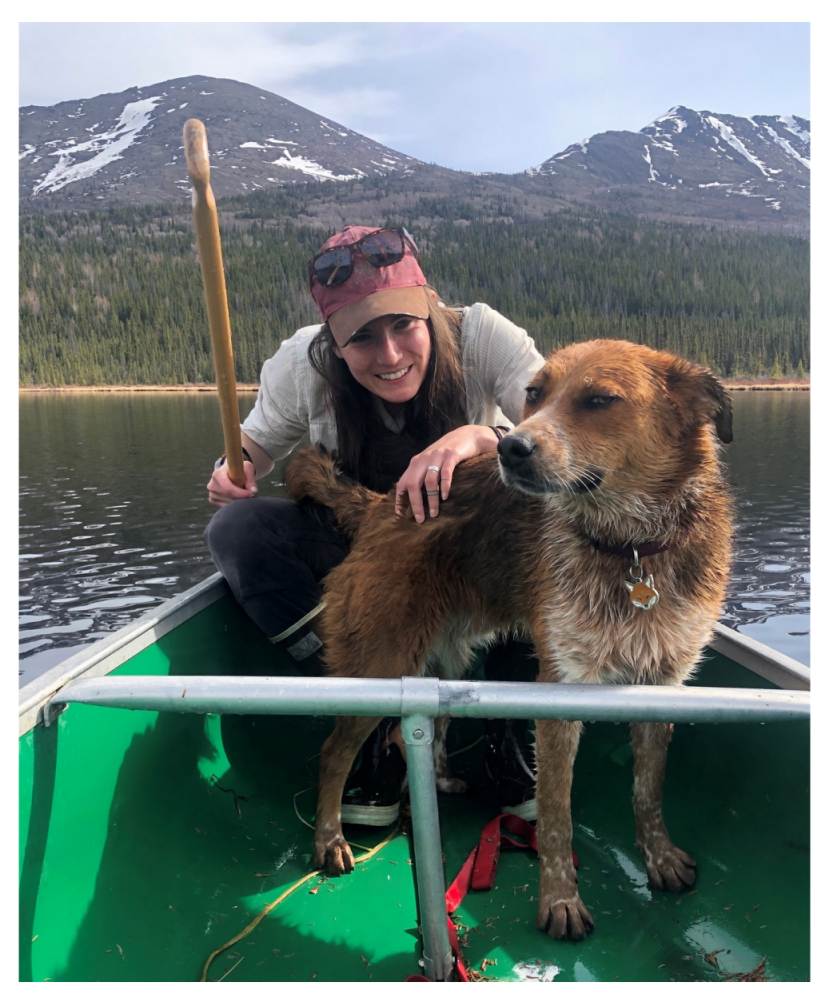
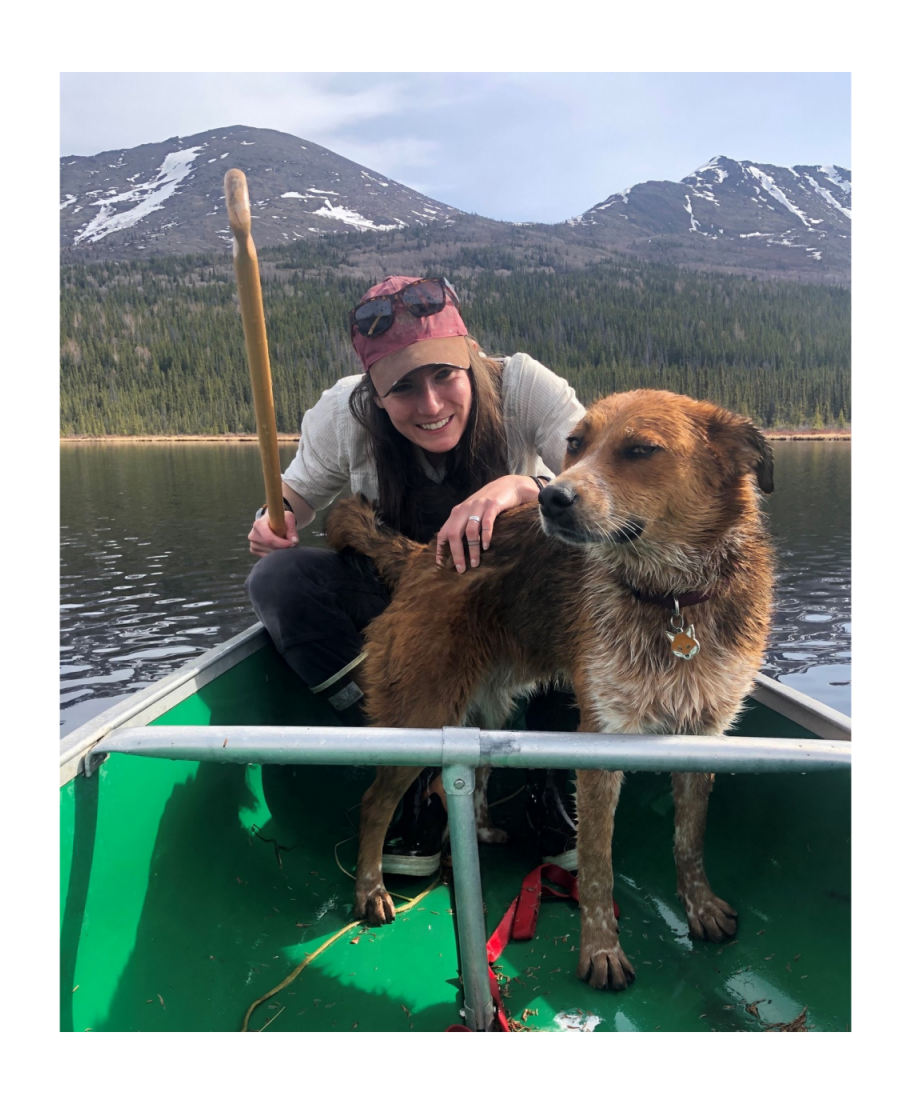
tweaking sizes

diff --git a/_pages/labmembers.md b/_pages/labmembers.md
@@ -45,17 +45,17 @@ Nicki's dissertation work at the [University of Maryland Center for Environmenta
 # Ph.D. Students
 
 
-<img src="/assets/people/megan.png" style="float:left" width = "150px"/>
+<img src="/assets/people/megan.png" style="float:left" width = "200px"/>
 
 ## Megan Perra
 
 Megan is interested in how biological cues like soundscapes and interspecific vocalizations influence movement decision making in caribou. More simply: Do caribou eavesdrop on the
 soundscape to help them find good habitat patches? She completed her masters at the University of Alaska Fairbanks, where she studied caribou auditory physiology and the soundscapes of the Arctic Coastal Plain.
 
-<img src="/assets/people/chloe.jpg" style="float:right" width = "150px"/>
-
 
 ## Chloe Beaupré
+
+<img src="/assets/people/chloe.jpg" style="float:right" width = "200px"/>
 
 Chloe is fascinated by movement ecology.  Her goal is to pursue research that fills
 information gaps and can be applied to important management actions.
